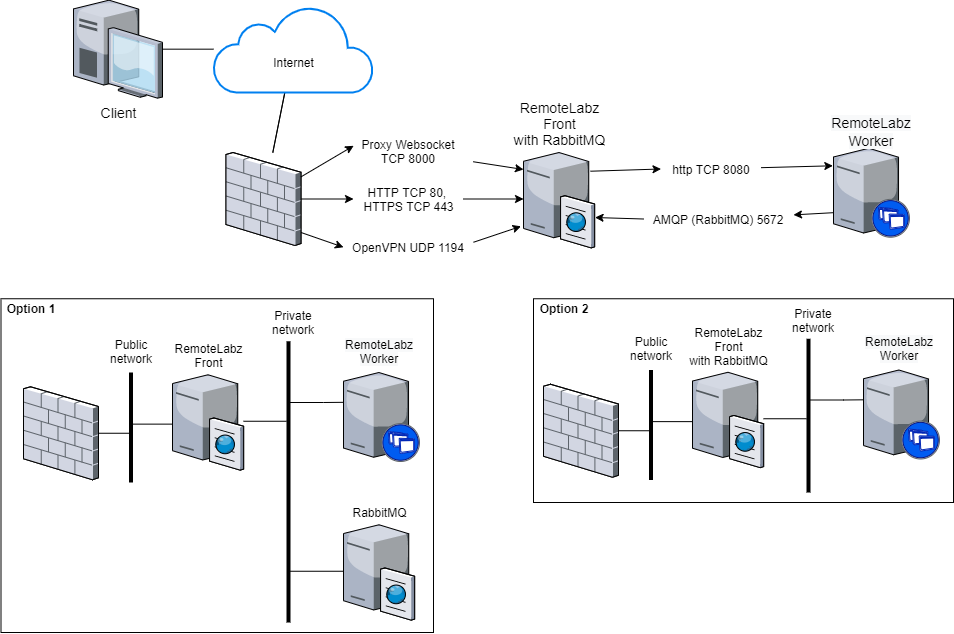
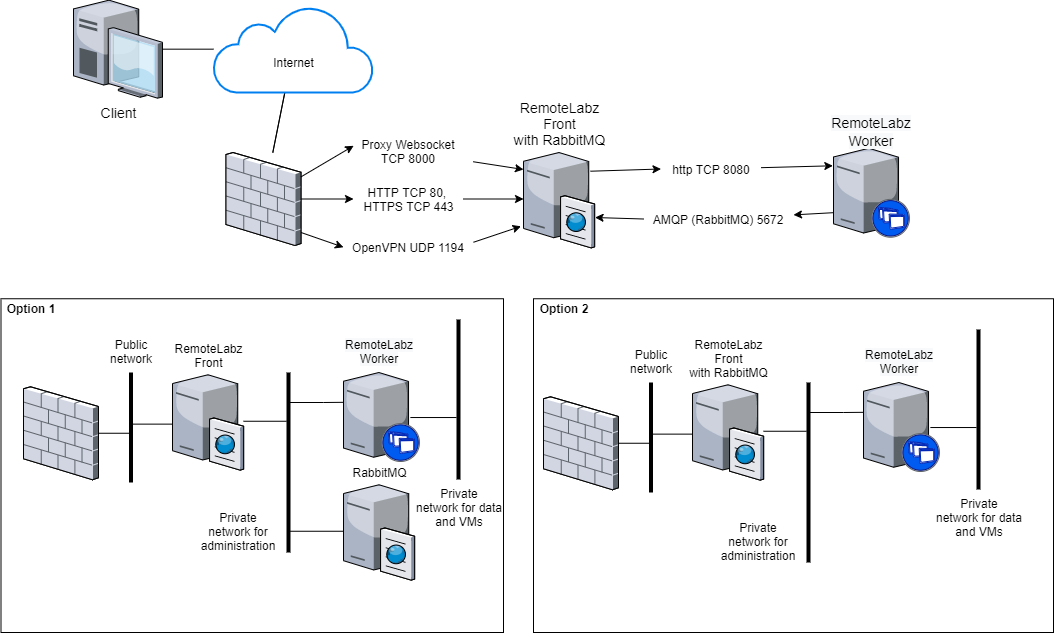
worker doc and install

diff --git a/docs/administrators/getting-started/ubuntu-worker.md b/docs/administrators/getting-started/ubuntu-worker.md
@@ -1,74 +1,47 @@
 # RemoteLabz's Worker installation guide
 
-This section guides you through the installation of RemoteLabz's worker and its components on an Ubuntu system.
+This section guides you through the installation of RemoteLabz's worker and its components on an Ubuntu system. We assume you have already installed an Ubuntu Server 20.04 LTS.
 
 !!! note "Foreword"
 
-    - This section has only been tested with **Ubuntu 20.04**
-    - The first steps explains how to install [requirements](#requirements). You may skip these steps if those software are already present on your system and go to [Install RemoteLabz](#install-remotelabz).
+    - This section has only been tested with **Ubuntu Server 20.04 LTS**
 
 ## Retrieve the RemoteLabz source
 A remotelabz directory will be create on your home directory.
 ```bash
 cd ~
 git clone https://gitlab.remotelabz.com/crestic/remotelabz-worker.git
+cd remotelabz-worker
+sudo ./install
 ```
 
-## Requirements
-### PHP
-
-RemoteLabz requires PHP >= 7.3. You can install it manually or via `ppa:ondrej/php` repo, which builds PHP and uploads it to a repo for many Unix systems.
-
-#### On Ubuntu 20.04 LTS
-``` bash
-sudo apt-get update
-sudo apt install -y curl gnupg php zip unzip php-bcmath php-curl php-gd php-intl php-mbstring php-mysql php-xml php-zip ntp
-```
-
-### Composer
-
-You may download Composer by following [official documentation](https://getcomposer.org/download/), but RemoteLabz is delivered with a copy of Composer that you can copy in a `bin` folder.
-``` bash
-sudo cp ~/remotelabz/composer.phar /usr/local/bin/composer
-sudo chmod 755 /usr/local/bin/composer
-```
-
-### Node.js
-The NodeJS's version in Ubuntu 20.04 LTS is too old. We recommand to use version 12 of NodeJS
-``` bash
-curl -sL https://deb.nodesource.com/setup_12.x | sudo -E bash -
-sudo apt-get install -y nodejs
-```
-
-### Yarn
-``` bash
-sudo npm install -g yarn
-```
-
-## Install RemoteLabz's worker
-
-While you're in RemoteLabz root directory :
-
-``` bash
-sudo bin/install
-```
-
-Then, you should modify the `.env` file according to your environment, including SQL database variables with `MYSQL_SERVER`, `MYSQL_USER`, `MYSQL_PASSWORD` and `MYSQL_DATABASE`.
+Then, you should modify the `.env` file according to your environment
 
 ``` bash
 sudo cp .env.dist .env
 sudo nano .env
-# you may change the MESSENGER_TRANSPORT_DSN variable with the following and with your credentials and server location
-MESSENGER_TRANSPORT_DSN=amqp://remotelabz-amqp:password-amqp@localhost:5672/%2f/messages
+# you may change the network interface name
+# DATA_INTERFACE will be used by the virtual machine
+# ADM_INTERFACE will be used by the RemoteLabz's front and the RabbitMQ to communicate with the worker. This interface is also used to ssh connexion
+DATA_INTERFACE="enp0s8"
+ADM_INTERFACE="enp0s3"
+# you may change the MESSENGER_TRANSPORT_DSN variable with the following, with your credentials, and the RabbitMQ IP or its FQDN
+MESSENGER_TRANSPORT_DSN=amqp://remotelabz-amqp:password-amqp@X.X.X.X:5672/%2f/messages
+
 ```
 
 ### Instances
 
-In order to be able to control instances on [the worker](https://gitlab.remotelabz.com/crestic/remotelabz-worker), you need to start **Symfony Messenger** :
-
 ```bash
-sudo systemctl start remotelabz
+sudo service remotelabz-worker start
 ```
+
+You can check the log of the worker in `~/remotelabz-worker/var/log/prod.log`
+
+## Options
+
+- `-p` Port used by remotelabz-worker
+    - Default : `8080`
 
 **Warning :** When consuming messages, a timestamp is used to determine which messages the messenger worker is able to consume. Therefore, each machines needs to be time-synchronized. We recommand you to use a service like `ntp` to keep your machines synchronized.
 

diff --git a/docs/administrators/getting-started/ubuntu-front.md b/docs/administrators/getting-started/ubuntu-front.md
@@ -1,6 +1,6 @@
 # RemoteLabz's front installation guide
 
-This section guides you through the installation of RemoteLabz and its components on an Ubuntu system.
+This section guides you through the installation of RemoteLabz and its components on an Ubuntu system. We assume you have already installed an Ubuntu Server 20.04 LTS.
 
 !!! note "Foreword"
 
